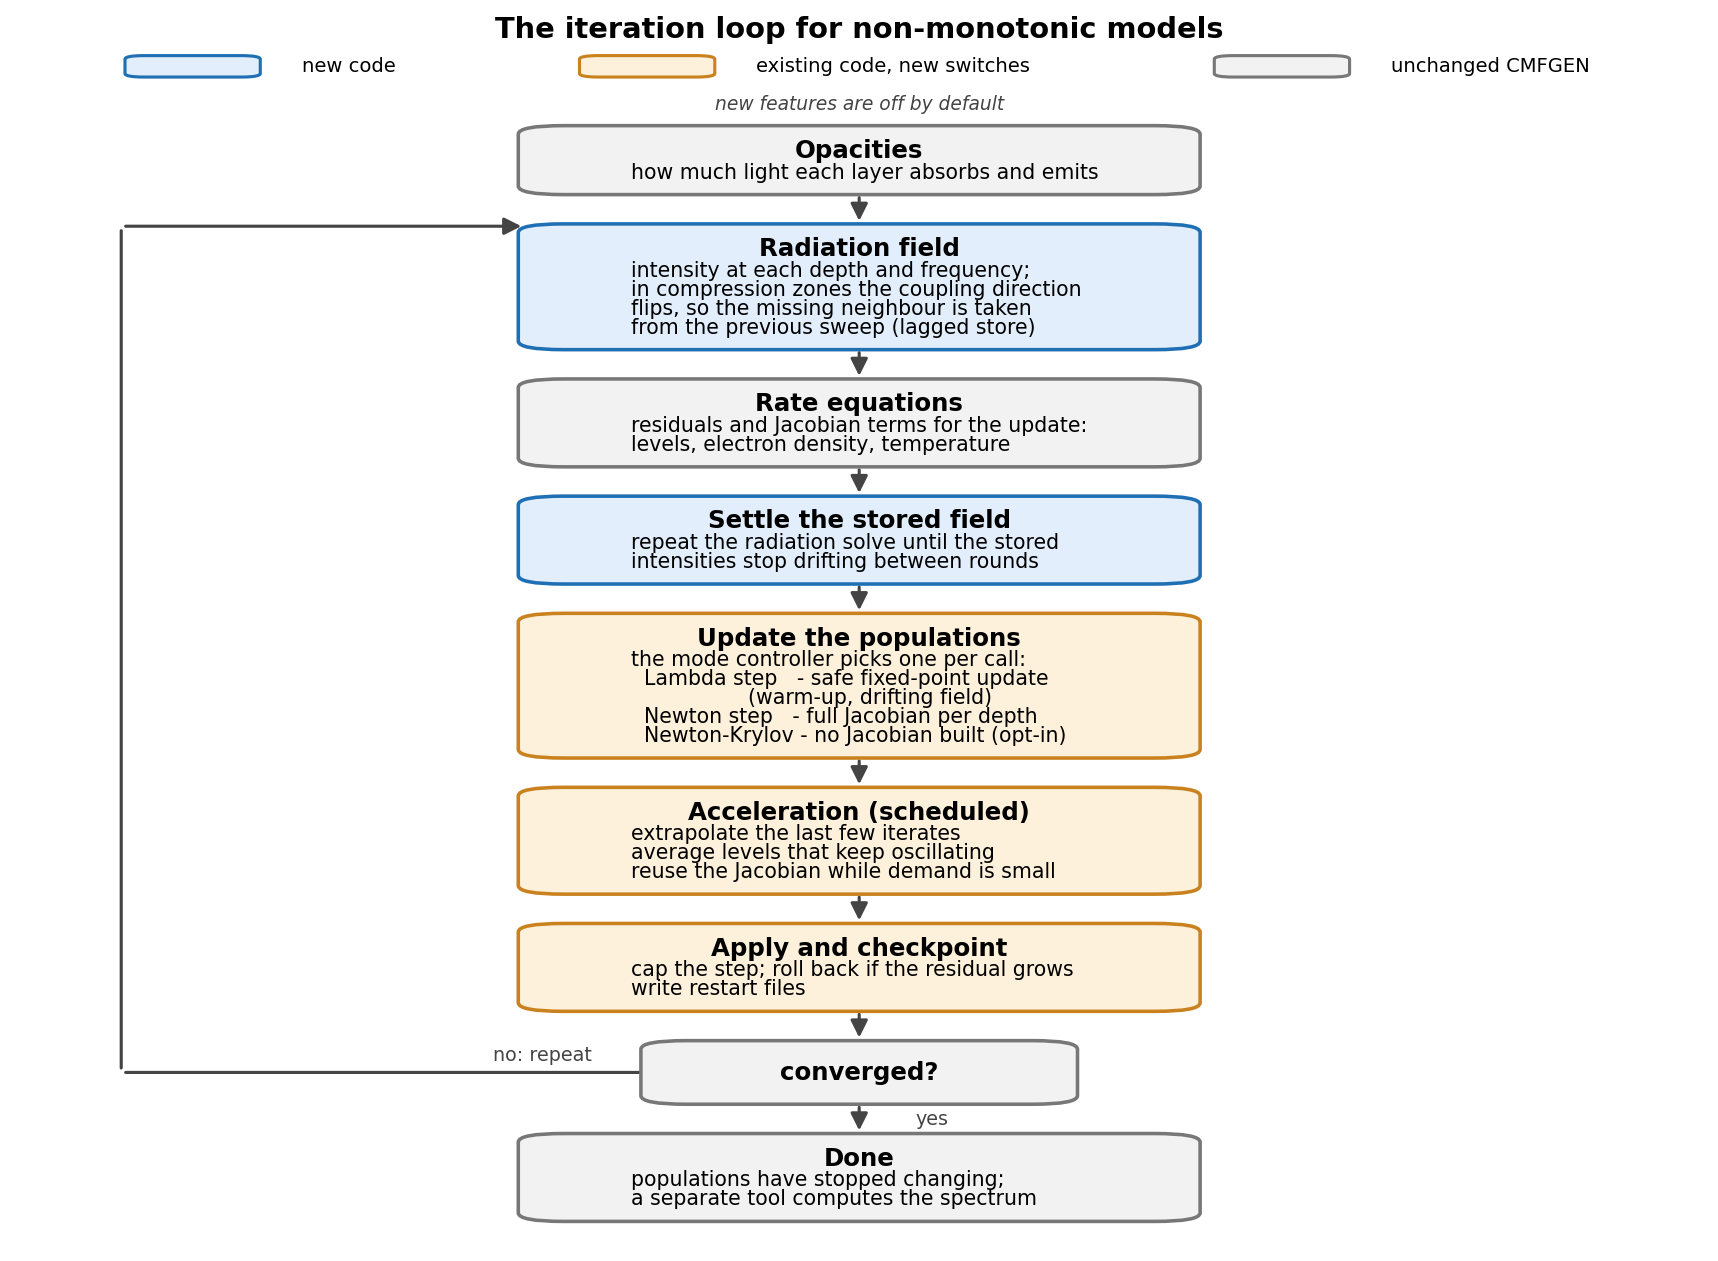
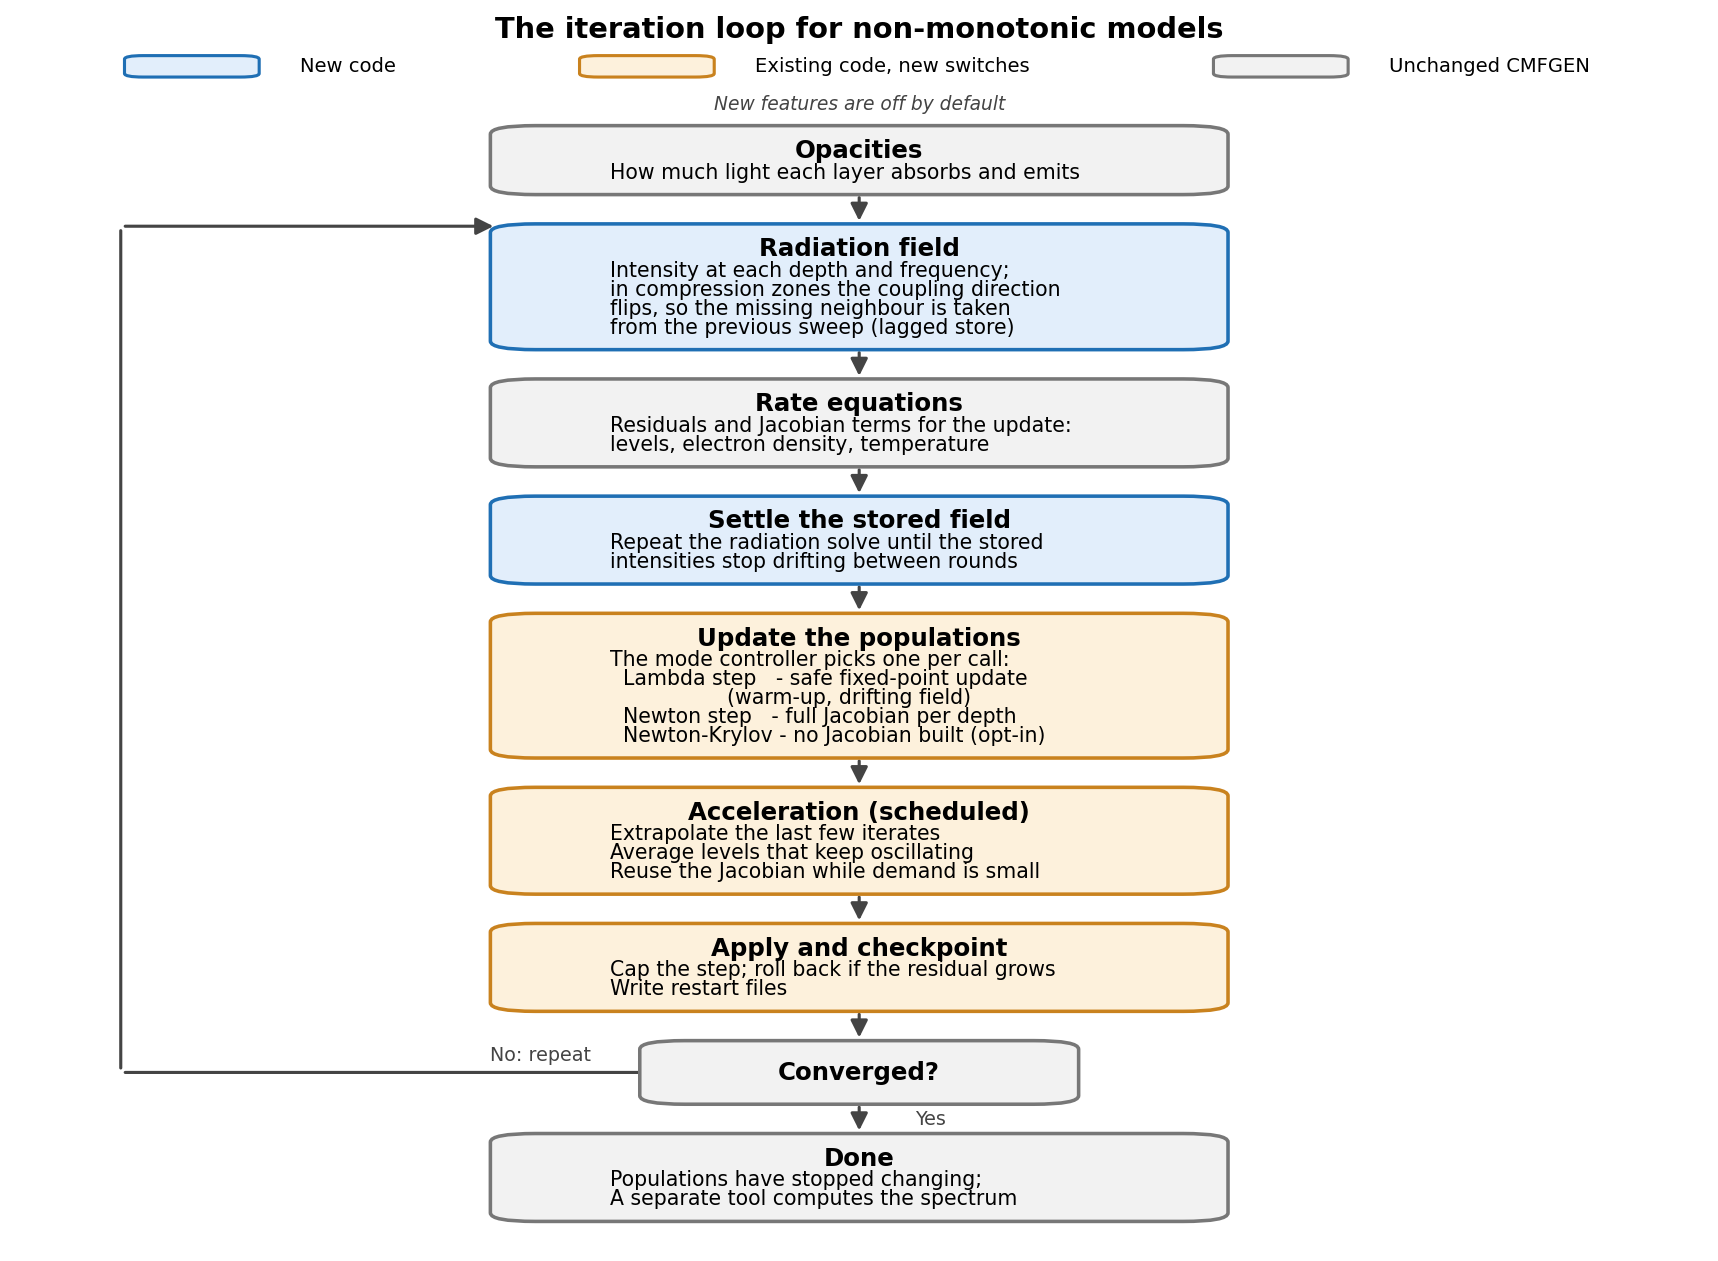
docs: fix box overflow and normalize capitalization in flowcharts
Add a 6% safety factor to the measured text width plus larger side
padding so no label reaches a box edge.  Sentence-case all box
labels, list items, arrow labels, and legend entries; same pass on
the knop_solver annotations.

Generated with [Devin](https://devin.ai)

diff --git a/docs/plot_stage_b_flow.py b/docs/plot_stage_b_flow.py
@@ -31,8 +31,8 @@ FS_BODY = 9.2
 LH_TITLE = 0.34
 LH_BODY = 0.265
 PAD_V = 0.16
-TXT_PAD_L = 0.28
-TXT_PAD_R = 0.25
+TXT_PAD_L = 0.30
+TXT_PAD_R = 0.30
 GAP = 0.45
 DPI = 160
 FIG_W_IN = 12.5
@@ -95,55 +95,55 @@ def arrow(ax, x0, y0, x1, y1, label=None, lx=None, ly=None,
 MAIN = [
     dict(kind="stock", title="Great iteration",
          lines=[
-             "radiation field, populations, checkpoint",
+             "Radiation field, populations, checkpoint",
          ]),
     dict(kind="mod", title="Measure the demand",
          lines=[
-             "largest correction on ordinary rows",
-             "largest correction the floors hid",
-             "largest trace change per gas density",
+             "Largest correction on ordinary rows",
+             "Largest correction the floors hid",
+             "Largest trace change per gas density",
          ]),
 ]
 
-DEC1 = "majors\nconverged?"
+DEC1 = "Majors\nconverged?"
 SIDE = dict(kind="stock", title="Normal exit or continue",
             lines=[
-                "stock logic decides:",
-                "converged -> write model, return",
-                "else      -> next great iteration",
+                "Stock logic decides:",
+                "Converged -> write model, return",
+                "Else      -> next great iteration",
             ])
 
 ARM = dict(kind="new", title="Arm a polish sweep",
            lines=[
-               "mark the next iteration as a polish sweep;",
-               "sweep count +1",
-               "rebuild the update matrix",
-               "another great iteration runs",
+               "Mark the next iteration as a polish sweep;",
+               "Sweep count +1",
+               "Rebuild the update matrix",
+               "Another great iteration runs",
            ])
 
 SOLVE = dict(kind="new", title="Polish solve",
              lines=[
-                 "direct matrix step; Krylov and",
+                 "Direct matrix step; Krylov and",
                  "fixed-point solvers stay off",
-                 "only floor-exempted rows commit;",
-                 "majors, density and temperature held",
+                 "Only floor-exempted rows commit;",
+                 "Majors, density and temperature held",
              ])
 
-DEC2 = "trace settled\nor sweeps spent?"
+DEC2 = "Trace settled\nor sweeps spent?"
 
 EXIT = dict(kind="stock", title="Exit",
             lines=[
-                "converged write-out; a spent sweep",
-                "budget never holds the run",
+                "Converged write-out; a spent sweep",
+                "Budget never holds the run",
             ])
 
 TRIGGER = [
     "A polish sweep runs only when all of these hold:",
-    "a non-monotonic solver is active",
-    "a demand floor is set",
-    "ordinary rows have converged",
-    "traces are still moving",
-    "sweeps remain in the budget",
+    "A non-monotonic solver is active",
+    "A demand floor is set",
+    "Ordinary rows have converged",
+    "Traces are still moving",
+    "Sweeps remain in the budget",
 ]
 
 # ---------------------------------------------------------------
@@ -162,7 +162,7 @@ aw_px = FIG_W_IN * DPI * AX_W_FRAC
 wbox_px = max(px.values())
 
 S = (0.6 + TXT_PAD_L + TXT_PAD_R + 0.3) / (1.0 - wbox_px / aw_px)
-BOX_W = wbox_px * S / aw_px + TXT_PAD_L + TXT_PAD_R
+BOX_W = wbox_px * 1.06 * S / aw_px + TXT_PAD_L + TXT_PAD_R
 # Keep the side column clear of the main column.
 min_sep = BOX_W + 1.2
 if S * 0.46 < min_sep:
@@ -181,11 +181,11 @@ fig.suptitle("Trace-species polish at the converged exit",
              fontsize=13, fontweight="bold", y=0.985)
 
 handles = [Patch(fc=STYLE["new"]["fc"], ec=STYLE["new"]["ec"],
-                 label="new code"),
+                 label="New code"),
            Patch(fc=STYLE["mod"]["fc"], ec=STYLE["mod"]["ec"],
-                 label="existing code, new switches"),
+                 label="Existing code, new switches"),
            Patch(fc=STYLE["stock"]["fc"], ec=STYLE["stock"]["ec"],
-                 label="unchanged CMFGEN")]
+                 label="Unchanged CMFGEN")]
 fig.legend(handles=handles, loc="upper center", ncol=3,
            bbox_to_anchor=(0.5, 0.955), frameon=False, fontsize=8.8,
            handlelength=1.6)
@@ -212,13 +212,13 @@ yb_side, h_side = draw_box(ax, X_SIDE, y + dec_h / 2, SIDE["title"],
                            SIDE["lines"], SIDE["kind"], BOX_W)
 arrow(ax, X_MAIN + dec_w / 2, d1_yc, X_SIDE - BOX_W / 2, d1_yc)
 ax.text((X_MAIN + dec_w / 2 + X_SIDE - BOX_W / 2) / 2, d1_yc + 0.3,
-        "no", fontsize=8.6, color="#444444", ha="center")
+        "No", fontsize=8.6, color="#444444", ha="center")
 
 y = d1_yc - dec_h / 2 - GAP
 yb_arm, h_arm = draw_box(ax, X_MAIN, y, ARM["title"], ARM["lines"],
                          ARM["kind"], BOX_W)
 arrow(ax, X_MAIN, d1_yc - dec_h / 2, X_MAIN, y,
-      label="yes + trace demand", lx=X_MAIN + 0.15)
+      label="Yes + trace demand", lx=X_MAIN + 0.15)
 
 y = yb_arm - GAP
 yb_sol, h_sol = draw_box(ax, X_MAIN, y, SOLVE["title"],
@@ -233,7 +233,7 @@ y = d2_yc - dec_h / 2 - GAP
 yb_exit, h_exit = draw_box(ax, X_MAIN, y, EXIT["title"],
                            EXIT["lines"], EXIT["kind"], BOX_W)
 arrow(ax, X_MAIN, d2_yc - dec_h / 2, X_MAIN, y,
-      label="yes", lx=X_MAIN + 0.15)
+      label="Yes", lx=X_MAIN + 0.15)
 
 # Loop-back for "no" on the second decision: re-arm Stage-B.
 x_loop = X_MAIN - BOX_W / 2 - 0.9
@@ -248,7 +248,7 @@ ax.add_patch(FancyArrowPatch(
     (x_loop, arm_mid), (X_MAIN - BOX_W / 2, arm_mid),
     arrowstyle="-|>", mutation_scale=16, lw=1.4, color="#444444"))
 ax.text(X_MAIN - dec_w / 2 - 0.15, d2_yc + 0.25,
-        "no: arm another sweep", fontsize=8.6, color="#444444",
+        "No: arm another sweep", fontsize=8.6, color="#444444",
         ha="right")
 
 # Trigger-condition note in the right column, beside the Stage-B

diff --git a/docs/plot_iteration_cycle.py b/docs/plot_iteration_cycle.py
@@ -37,8 +37,8 @@ LH_TITLE = 0.34        # axis units per title line
 LH_BODY = 0.265        # axis units per body line
 PAD_V = 0.16
 BOX_X = 0.75           # left edge of the main column
-TXT_PAD_L = 0.28       # text indent inside a box
-TXT_PAD_R = 0.25       # clearance between text and box edge
+TXT_PAD_L = 0.30       # text indent inside a box
+TXT_PAD_R = 0.30       # clearance between text and box edge
 RMARGIN = 0.3          # right edge margin
 GAP = 0.45             # vertical gap left for arrows between boxes
 DPI = 160
@@ -51,13 +51,13 @@ BOXES = [
         kind="stock",
         title="Opacities",
         lines=[
-            "how much light each layer absorbs and emits",
+            "How much light each layer absorbs and emits",
         ]),
     dict(
         kind="new",
         title="Radiation field",
         lines=[
-            "intensity at each depth and frequency;",
+            "Intensity at each depth and frequency;",
             "in compression zones the coupling direction",
             "flips, so the missing neighbour is taken",
             "from the previous sweep (lagged store)",
@@ -66,21 +66,21 @@ BOXES = [
         kind="stock",
         title="Rate equations",
         lines=[
-            "residuals and Jacobian terms for the update:",
+            "Residuals and Jacobian terms for the update:",
             "levels, electron density, temperature",
         ]),
     dict(
         kind="new",
         title="Settle the stored field",
         lines=[
-            "repeat the radiation solve until the stored",
+            "Repeat the radiation solve until the stored",
             "intensities stop drifting between rounds",
         ]),
     dict(
         kind="mod",
         title="Update the populations",
         lines=[
-            "the mode controller picks one per call:",
+            "The mode controller picks one per call:",
             "  Lambda step   - safe fixed-point update",
             "                  (warm-up, drifting field)",
             "  Newton step   - full Jacobian per depth",
@@ -90,30 +90,30 @@ BOXES = [
         kind="mod",
         title="Acceleration (scheduled)",
         lines=[
-            "extrapolate the last few iterates",
-            "average levels that keep oscillating",
-            "reuse the Jacobian while demand is small",
+            "Extrapolate the last few iterates",
+            "Average levels that keep oscillating",
+            "Reuse the Jacobian while demand is small",
         ]),
     dict(
         kind="mod",
         title="Apply and checkpoint",
         lines=[
-            "cap the step; roll back if the residual grows",
-            "write restart files",
+            "Cap the step; roll back if the residual grows",
+            "Write restart files",
         ]),
 ]
 
 DONE_TITLE = "Done"
 DONE_LINES = [
-    "populations have stopped changing;",
-    "a separate tool computes the spectrum",
+    "Populations have stopped changing;",
+    "A separate tool computes the spectrum",
 ]
 
-DEC_TEXT = "converged?"
+DEC_TEXT = "Converged?"
 
-LEGEND = [("new", "new code"),
-          ("mod", "existing code, new switches"),
-          ("stock", "unchanged CMFGEN")]
+LEGEND = [("new", "New code"),
+          ("mod", "Existing code, new switches"),
+          ("stock", "Unchanged CMFGEN")]
 
 
 # ---------------------------------------------------------------
@@ -191,7 +191,7 @@ S_box = (BOX_X + TXT_PAD_L + TXT_PAD_R + RMARGIN) / (1.0 - wbox_px / aw_px)
 S_leg = leg_fixed / (1.0 - leg_text_px / aw_px)
 S = max(S_box, S_leg)
 
-BOX_W = wbox_px * S / aw_px + TXT_PAD_L + TXT_PAD_R
+BOX_W = wbox_px * 1.06 * S / aw_px + TXT_PAD_L + TXT_PAD_R
 XC = S / 2                 # centre the column on the canvas
 XLIM = S
 
@@ -229,7 +229,7 @@ for kind, lab in LEGEND:
     ax.text(lx, leg_y, lab, fontsize=8.8, va="center")
     lx += px_leg[lab] * units_per_px + 0.5
 ax.text(XLIM / 2, leg_y - 0.4,
-        "new features are off by default",
+        "New features are off by default",
         fontsize=8.4, ha="center", va="top", style="italic",
         color="#444444")
 y -= 1.0
@@ -257,7 +257,7 @@ arrow(ax, XC, bounds[-1][0], dec_top)
 done_top = dec_top - dec_h - GAP
 yb, _ = draw_box(ax, XC, done_top, DONE_TITLE, DONE_LINES,
                  "stock", BOX_W)
-arrow(ax, XC, dec_top - dec_h, done_top, label="yes", lx=XC + 0.15)
+arrow(ax, XC, dec_top - dec_h, done_top, label="Yes", lx=XC + 0.15)
 
 # Loop-back arrow: decision "no" -> left margin -> back to box 1.
 x_loop = 0.28
@@ -272,7 +272,7 @@ ax.add_patch(FancyArrowPatch(
     (x_loop, box1_mid), (XC - BOX_W / 2, box1_mid),
     arrowstyle="-|>", mutation_scale=16, lw=1.4, color="#444444"))
 ax.text(XC - dec_w / 2 - 0.15, dec_top - dec_h / 2 + 0.16,
-        "no: repeat", fontsize=8.6, color="#444444", ha="right")
+        "No: repeat", fontsize=8.6, color="#444444", ha="right")
 
 out = Path(__file__).resolve().parent / "iteration_cycle.png"
 plt.savefig(out, dpi=DPI, bbox_inches="tight")

diff --git a/docs/plot_knop_solver.py b/docs/plot_knop_solver.py
@@ -101,11 +101,11 @@ ax.plot(r, v_int, color='k', lw=1.6)
 ax.fill_between(r, 0, 10500, where=sigma_int < -1.0, color='tab:red',
                 alpha=0.15)
 ax.axvline(R_SHOCK, color='gray', lw=0.8, ls=':')
-ax.annotate('reverse shock:\nshell stalls into the\ncold dense shell',
+ax.annotate('Reverse shock:\nshell stalls into the\ncold dense shell',
             xy=(5.05, 5800), xytext=(0.6, 7800), fontsize=9,
             arrowprops=dict(arrowstyle='->', color='k', lw=0.8))
-ax.text(6.6, 4700, 'shocked CSM', fontsize=9)
-ax.text(0.4, 3800, 'fast ejecta\nshell', fontsize=9)
+ax.text(6.6, 4700, 'Shocked CSM', fontsize=9)
+ax.text(0.4, 3800, 'Fast ejecta\nshell', fontsize=9)
 ax.set_title(col_titles[1], fontsize=11)
 ax.set_xlim(0, 10)
 ax.set_ylim(0, 10500)
@@ -138,7 +138,7 @@ ax.plot(s, dop_mono, color='k', lw=1.6)
 ax.axhline(delta_mono, color='tab:green', lw=1.0, ls='--')
 for k in cross_mono:
     ax.plot(s[k], dop_mono[k], 'o', ms=9, color='tab:green', zorder=5)
-    ax.annotate('one resonance\n(Sobolev point)', (s[k], dop_mono[k]),
+    ax.annotate('One resonance\n(Sobolev point)', (s[k], dop_mono[k]),
                 textcoords='offset points', xytext=(-110, -25),
                 fontsize=9, color='tab:green',
                 arrowprops=dict(arrowstyle='->', color='tab:green',
@@ -157,7 +157,7 @@ lbl = [(-30, 14), (-4, -28), (22, 14)]
 for i, k in enumerate(cross_int):
     j = min(i, len(lbl) - 1)
     ax.plot(s[k], dop_int[k], 'o', ms=9, color='tab:green', zorder=5)
-    ax.annotate(f'root {i + 1}', (s[k], dop_int[k]),
+    ax.annotate(f'Root {i + 1}', (s[k], dop_int[k]),
                 textcoords='offset points', xytext=lbl[j],
                 ha='center', fontsize=9, color='tab:green',
                 arrowprops=dict(arrowstyle='-', color='tab:green',
@@ -184,9 +184,9 @@ ax.text(0.1, 0.68, r"$S' = S + Q\,I_{\rm upwind}$"
         '  (velocity coupling moved into the source)', fontsize=10)
 ax.text(0.1, 0.50, 'sign(' r'$\gamma$' ') picks the upwind frequency:',
         fontsize=10)
-ax.text(0.35, 0.32, r'$\gamma > 0$ expanding:  use previous $\nu$',
+ax.text(0.35, 0.32, r'$\gamma > 0$  expanding:  use previous $\nu$',
         fontsize=10, color='tab:blue')
-ax.text(0.35, 0.16, r'$\gamma < 0$ compressing:  use next $\nu$'
+ax.text(0.35, 0.16, r'$\gamma < 0$  compressing:  use next $\nu$'
         '  (lagged from the previous iteration)',
         fontsize=10, color='tab:red')
 
@@ -207,7 +207,7 @@ ax.annotate('', xy=(x1, y_line + 0.34), xytext=(x2, y_line + 0.34),
 ax.text((x1 + x2) / 2, y_line + 0.40,
         r'$\gamma < 0$: lagged $I_{i+1}$',
         ha='center', fontsize=9, color='tab:red')
-ax.text(7.6, 0.02, 'intensity always upwinds from the correct side',
+ax.text(7.6, 0.02, 'Intensity always upwinds from the correct side',
         ha='center', fontsize=9, style='italic')
 
 out = Path(__file__).resolve().parent / 'knop_solver.png'
